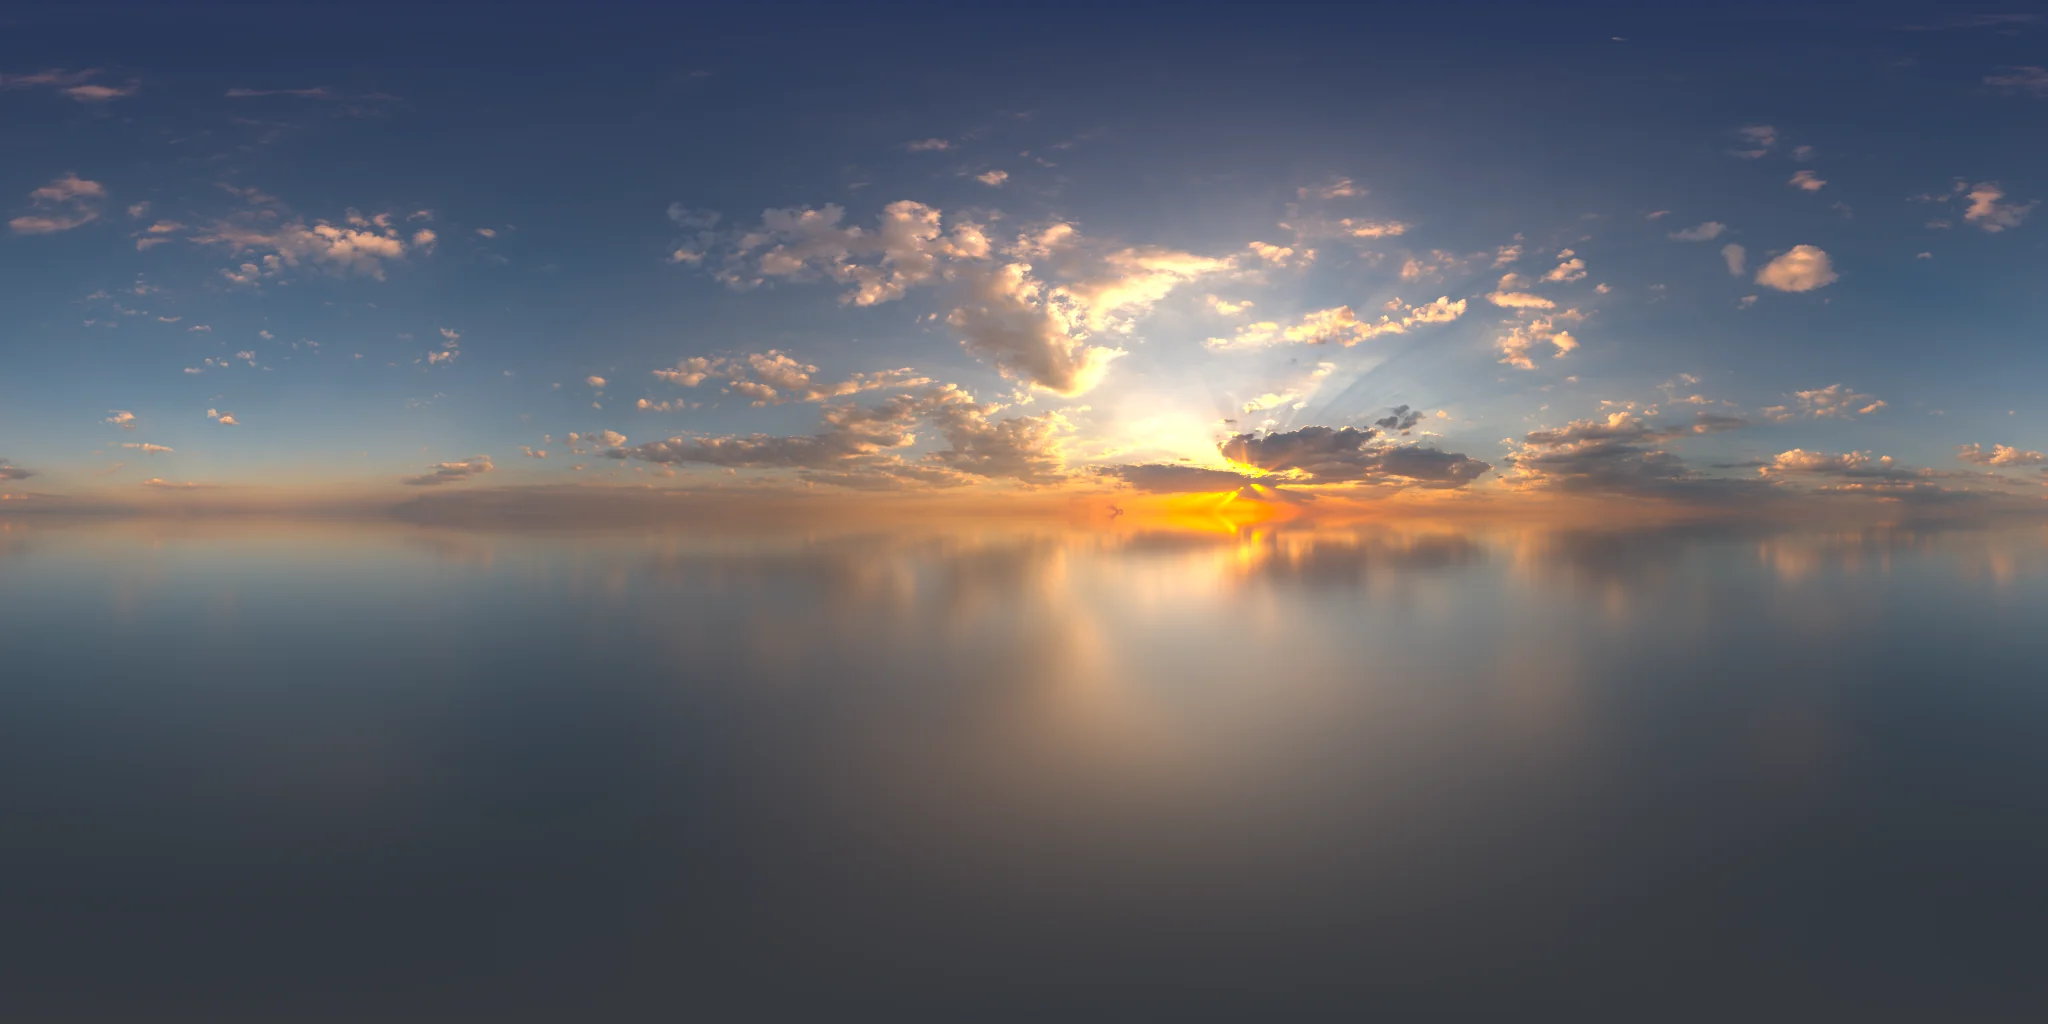
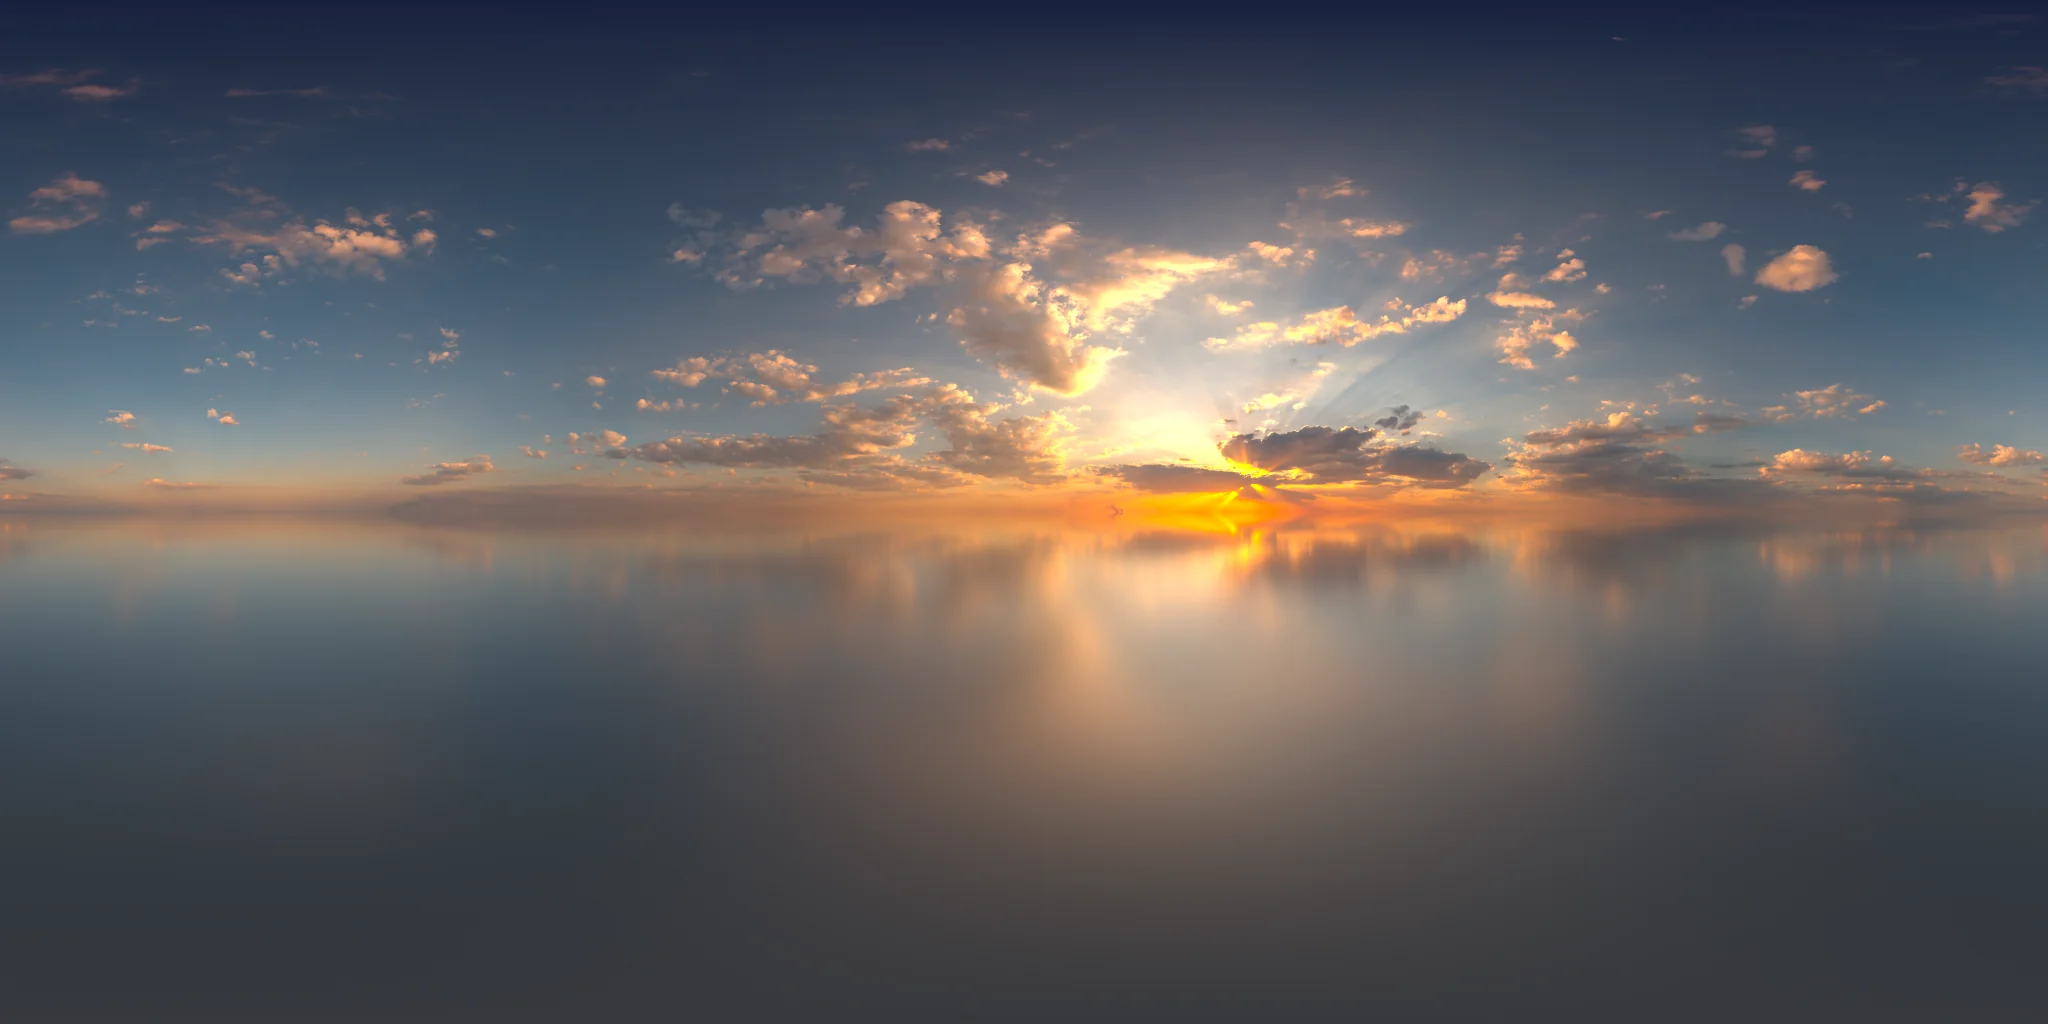
まぶしさは太陽が直接見えるときだけ（柵・地面の起伏・木の幹と葉でさえぎる）。夜の月はまぶしくしない。夕暮れの空を暗く（上の空を暗い青に、全体の明るさを下げる）
Claude-Session: https://claude.ai/code/session_01U2WEiw1MxvSipH2a48NjSQ

diff --git a/js/render/sun-glare.js b/js/render/sun-glare.js
@@ -1,6 +1,6 @@
 // 太陽を見るとまぶしい：太陽の位置に光の輪と光の筋を出し、まっすぐ見るほど画面全体が白く飛ぶ。
-// 木の葉（だいたいの球）が太陽をさえぎっていると弱まる。夜は月の淡い光、夕暮れは橙色。
-// 画面の上に重ねる HTML の飾りで描く（エンジンの描画を増やさないので軽い）
+// 太陽が直接見えるときだけ出す：外周の柵・地面の起伏・木の幹・木の葉（だいたいの形）がさえぎっていたら出さない。
+// 夕暮れは橙色。夜（月）はまぶしくしない。画面の上に重ねる HTML の飾りで描く（エンジンの描画を増やさないので軽い）
 import * as pc from 'playcanvas';
 
 const smooth = (a, b, x) => { const t = Math.max(0, Math.min(1, (x - a) / (b - a))); return t * t * (3 - 2 * t); };
@@ -8,28 +8,60 @@ const smooth = (a, b, x) => { const t = Math.max(0, Math.min(1, (x - a) / (b - a
 /**
  * @param {pc.Entity} sun 太陽の光（光は自分の -Y へ進むので、太陽のある向きは +Y）
  * @param {{ glare: {strength: number, color: number[]} }} timeOfDay 時間帯（まぶしさの強さと色）
- * @param {{x,y,z,r}[]} canopies 葉の広がり
+ * @param {object} occluders 太陽をさえぎる物
+ *   canopies：葉（だいたいの球 {x,y,z,r}）、trunks：幹（円柱 {x,z,r,top}）、
+ *   fence：外周の柵 {radius, height}、heightAt：地面の高さ
  */
-export function createSunGlare(camera, sun, timeOfDay, canopies = []) {
+export function createSunGlare(camera, sun, timeOfDay, { canopies = [], trunks = [], fence = null, heightAt = null } = {}) {
   const flare = document.getElementById('glare');
   const wash = document.getElementById('dazzle');
   const camPos = new pc.Vec3(), dir = new pc.Vec3(), far = new pc.Vec3(), screen = new pc.Vec3();
-  let visible = 1;
+  let visible = 0;
 
-  /** カメラから太陽の向きへの線が、近くの葉の球を通るか（通れば 0、かすめれば少し） */
+  /** カメラから太陽の向きへの線が、何にもさえぎられていないか（0〜1。葉の縁は少し透ける） */
   function openSky() {
+    const ox = camPos.x, oy = camPos.y, oz = camPos.z, dx = dir.x, dy = dir.y, dz = dir.z;
+    // 外周の柵：線が柵の円に届いた所で、柵の高さより下なら見えない
+    if (fence) {
+      const a = dx * dx + dz * dz;
+      if (a > 1e-6) {
+        const b = ox * dx + oz * dz, c = ox * ox + oz * oz - fence.radius * fence.radius;
+        const t = (-b + Math.sqrt(Math.max(0, b * b - a * c))) / a;   // 円の内側から外へ出る所
+        const x = ox + dx * t, z = oz + dz * t, y = oy + dy * t;
+        if (t > 0 && y < (heightAt ? heightAt(x, z) : 0) + fence.height) return 0;
+      }
+    }
+    // 地面の起伏：線の上を何か所か調べ、地面より下を通るなら見えない
+    if (heightAt) {
+      for (let t = 4; t <= 90; t += 6) {
+        if (oy + dy * t < heightAt(ox + dx * t, oz + dz * t)) return 0;
+      }
+    }
+    // 木の幹（円柱）：横から見た距離が幹の太さより近く、その高さが幹の中なら見えない
+    const ha = Math.hypot(dx, dz) || 1e-6;
+    for (const k of trunks) {
+      const px = k.x - ox, pz = k.z - oz;
+      const t = (px * dx + pz * dz) / (ha * ha);        // 横から見て、線が幹に一番近づく所
+      if (t <= 0 || t > 60) continue;
+      const qx = ox + dx * t - k.x, qz = oz + dz * t - k.z;
+      if (qx * qx + qz * qz < k.r * k.r * 1.2 && oy + dy * t < k.top) return 0;
+    }
+    // 木の葉（だいたいの球）
     let v = 1;
     for (const c of canopies) {
-      const dx = c.x - camPos.x, dy = c.y - camPos.y, dz = c.z - camPos.z;
-      const t = dx * dir.x + dy * dir.y + dz * dir.z;       // 線の上で、球の中心に一番近い所
-      if (t <= 0 || t > 40) continue;
-      const d2 = dx * dx + dy * dy + dz * dz - t * t;       // 線と中心の距離の 2 乗
+      const px = c.x - ox, py = c.y - oy, pz = c.z - oz;
+      const t = px * dx + py * dy + pz * dz;            // 線の上で、球の中心に一番近い所
+      if (t <= 0 || t > 60) continue;
+      const d2 = px * px + py * py + pz * pz - t * t;
       const r2 = c.r * c.r;
-      if (d2 < r2) v = Math.min(v, 0.15 + 0.85 * smooth(r2 * 0.55, r2, d2));   // 葉の縁は少し透ける
-      if (v <= 0.15) break;
+      if (d2 < r2) v = Math.min(v, 0.6 * smooth(r2 * 0.7, r2, d2));   // 葉の縁は少しだけ透ける
+      if (v <= 0) return 0;
     }
     return v;
   }
+
+  const hide = () => { flare.style.opacity = '0'; wash.style.opacity = '0'; };
+  let timer = 0, open = 0;
 
   return {
     update(dt) {
@@ -39,12 +71,13 @@ export function createSunGlare(camera, sun, timeOfDay, canopies = []) {
       dir.copy(sun.up).normalize();
       const fwd = camera.forward;
       const align = fwd.x * dir.x + fwd.y * dir.y + fwd.z * dir.z;   // 1 で太陽を真正面に見ている
-      if (g.strength <= 0.01 || align < 0.2 || dir.y < -0.02) {
-        flare.style.opacity = '0'; wash.style.opacity = '0';
-        return;
-      }
-      // さえぎり：急に変わらないよう、なめらかに追いかける
-      visible += (openSky() - visible) * Math.min(1, dt * 8);
+      if (g.strength <= 0.01 || align < 0.2 || dir.y < -0.02) { visible = 0; hide(); return; }
+      // さえぎりの判定は 1 秒に 20 回まで（木が多いので）
+      timer -= dt;
+      if (timer <= 0) { timer = 0.05; open = openSky(); }
+      // 急に変わらないよう、なめらかに追いかける（さえぎられたらすぐ消える）
+      visible += (open - visible) * Math.min(1, dt * (open < visible ? 20 : 8));
+      if (visible < 0.01) { hide(); return; }
       far.copy(dir).mulScalar(500).add(camPos);
       cam.worldToScreen(far, screen);
       const k = g.strength * visible;

diff --git a/js/world/time-of-day.js b/js/world/time-of-day.js
@@ -19,10 +19,10 @@ export const TIMES = {
              glare: 0.6,  glareColor: [1.0, 0.86, 0.7] },
   day:     { name: '昼',     sky: 'kloofendal_48d',   level: 1.05, sun: 1.6,  sunColor: [1.0, 0.96, 0.88], minElevation: 0, fogDensity: 0.012, fogMax: 1, exposure: 1.08,
              glare: 1.0,  glareColor: [1.0, 0.98, 0.92] },
-  dusk:    { name: '夕暮れ', sky: 'kloppenheim_06',   level: 0.45, sun: 0.75, sunWhite: 0.1,  minElevation: 7,  fogDensity: 0.014, fogMax: 0.4,  exposure: 1.05,
+  dusk:    { name: '夕暮れ', sky: 'kloppenheim_06',   level: 0.09, sun: 0.8,  sunWhite: 0.1,  minElevation: 7,  fogDensity: 0.015, fogMax: 0.22, exposure: 1.1,
              glare: 0.8,  glareColor: [1.0, 0.58, 0.28] },
   night:   { name: '深夜',   sky: 'kloppenheim_02',   level: 0.06, sun: 0.22, sunWhite: 0,    minElevation: 25, fogDensity: 0.02,  fogMax: 1,    exposure: 1.5,
-             glare: 0.22, glareColor: [0.7, 0.8, 1.0] },
+             glare: 0,    glareColor: [0.7, 0.8, 1.0] },   // 月はまぶしくしない
 };
 
 const lerp = (a, b, t) => a + (b - a) * t;
@@ -114,6 +114,9 @@ export function createTimeOfDay(app, base, config) {
   return {
     get current() { return current; },
     get name() { return TIMES[current].name; },
+    /** 今出している空の写真の名前（確認用） */
+    get skyName() { return shownSky?.name ?? null; },
+    get loadedSkies() { return Object.keys(skies); },
     /** 太陽（夜は月）を見たときのまぶしさ { strength, color } */
     glare,
     /** 時間帯を変える。seconds：変わるのにかける時間（0 ならすぐ） */

diff --git a/js/world/trees.js b/js/world/trees.js
@@ -124,6 +124,7 @@ export function createModelTrees(app, config, seed, terrain, obstacles, models) 
   // 1. 置く場所を決める（大きい木 → 若木の順。木どうしは葉の広がりに応じて間をあける）
   const placements = {};
   const canopies = [];
+  const trunks = [];
   for (const name of TREE_TYPES) placements[name] = [];
   const order = Object.entries(w.trees); // [[種類, 本数], ...]
   for (const [name, count] of order) {
@@ -150,6 +151,7 @@ export function createModelTrees(app, config, seed, terrain, obstacles, models) 
       if (!isSapling) {
         const base = mat.getTranslation(new pc.Vec3()).y;
         canopies.push({ x, y: base + m.height * sy * 0.62, z, r: Math.max(1.5, m.crownRadius * s * 0.55) });
+        trunks.push({ x, z, r: Math.max(0.15, m.trunkRadius * s), top: base + m.height * sy * 0.8 });
       }
       // 若木は踏み分けて通れるように当たり判定を小さく、それ以外は幹の太さで
       obstacles.add(x, z, isSapling ? 0.01 : Math.max(0.15, m.trunkRadius * s), !isSapling);
@@ -249,5 +251,6 @@ export function createModelTrees(app, config, seed, terrain, obstacles, models) 
     counts: Object.fromEntries(groups.map((g) => [g.name, g.list.length])),
     placements, // 確認用（自動テストから木の位置を読むため）
     canopies,   // 葉の広がり（だいたいの球）。太陽のまぶしさを葉がさえぎるかの判定に使う
+    trunks,     // 幹（円柱）。同じく太陽をさえぎるかの判定に使う
   };
 }

diff --git a/js/main.js b/js/main.js
@@ -65,7 +65,10 @@ async function boot() {
   // 時間帯（朝・昼・夕暮れ・深夜）。霧の色が変わったら、空の無い所の背景色も合わせる
   env.onFogColor = (c) => { player.camera.camera.clearColor = c; };
   const timeOfDay = createTimeOfDay(app, env, CONFIG);
-  const sunGlare = createSunGlare(player.camera, env.sun, timeOfDay, trees?.canopies || []);
+  const sunGlare = createSunGlare(player.camera, env.sun, timeOfDay, {
+    canopies: trees?.canopies || [], trunks: trees?.trunks || [],
+    fence: { radius: AREA_RADIUS + 0.4, height: 10 }, heightAt: terrain.heightAt,
+  });
   const touchLayer = document.getElementById('touch-layer');
   const input = createInput(touchLayer, document.getElementById('stick'), CONFIG);
   const stats = createStats(app, CONFIG.showStats, CONFIG.qualityName);

diff --git a/index.html b/index.html
@@ -9,7 +9,7 @@
 <meta name="theme-color" content="#1b211c">
 <title>静かな森</title>
 <!-- 版の番号（js/version.js と同じ値。古いファイルが混ざったら main.js が取り直す） -->
-<script>window.__BUILD = '2026-11-03.6';</script>
+<script>window.__BUILD = '2026-11-03.7';</script>
 <link rel="stylesheet" href="./css/style.css">
 <!-- 読み込みを速くする：ページを開いた瞬間に、エンジンと質感画像を並行して取りに行く -->
 <link rel="modulepreload" href="./vendor/playcanvas/2.23.3/playcanvas.min.mjs">

diff --git a/js/version.js b/js/version.js
@@ -1,3 +1,3 @@
 // 公開している版の番号。index.html の window.__BUILD と同じ値にする（変更を公開するたびに両方を上げる）。
 // Safari が古いファイルを覚えていて、新しいページと古いプログラムが混ざったときに気づくため（main.js で比べる）
-export const BUILD = '2026-11-03.6';
+export const BUILD = '2026-11-03.7';

diff --git a/assets/sky/CREDITS.md b/assets/sky/CREDITS.md
@@ -31,7 +31,7 @@ MD5 は Poly Haven の API の値と一致することを確認済み。
 ```
 python3 tools/make_sky.py <元の .hdr> assets/sky kloofendal_48d "sat=1.45,gain=0.92:1.0:1.12,top=0.75:0.85:1.05"
 python3 tools/make_sky.py qwantani_sunrise_puresky_2k.hdr assets/sky qwantani_sunrise
-python3 tools/make_sky.py kloppenheim_06_puresky_2k.hdr assets/sky kloppenheim_06 "sat=1.6,gain=1.35:0.85:0.58,top=0.38:0.42:0.78"
+python3 tools/make_sky.py kloppenheim_06_puresky_2k.hdr assets/sky kloppenheim_06 "sat=1.7,gain=1.4:0.8:0.5,top=0.14:0.16:0.38"
 python3 tools/make_sky.py kloppenheim_02_puresky_2k.hdr assets/sky kloppenheim_02 "sat=1.3,gain=0.55:0.75:1.3,top=0.6:0.7:1.0"
 ```
 
